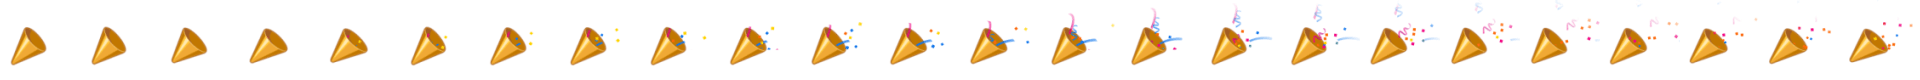
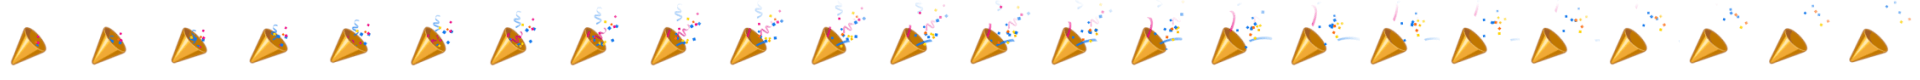
added a pulse for highlighting UI that corresponds to the bot's message

diff --git a/loading/css/style.css b/loading/css/style.css
@@ -275,6 +275,42 @@ body {
  }
 }
 
+#pulseLight {
+  position: relative;
+  top: 30px;
+  width: 50px;
+  height: 50px;
+  display: block;
+  background-image: url("../images/pulseLight.png");
+  animation: pulseLight .8s steps(25) infinite;
+}
+@keyframes pulseLight {
+ from {
+   background-position: 0px;
+ }
+ to {
+   background-position: -1250px;
+ }
+}
+
+#pulseDark {
+  position: relative;
+  top: 40px;
+  width: 50px;
+  height: 50px;
+  display: block;
+  background-image: url("../images/pulseDark.png");
+  animation: pulseDark .8s steps(25) infinite;
+}
+@keyframes pulseDark {
+ from {
+   background-position: 0px;
+ }
+ to {
+   background-position: -1250px;
+ }
+}
+
 #react-lol {
   position: relative;
   left: -20px;
@@ -390,7 +426,7 @@ body {
   height: 80px;
   display: block;
   background-image: url("../images/react_party.png");
-  animation: party 1.2s steps(24) infinite;
+  animation: party .8s steps(24) infinite;
 }
 @keyframes party {
  from {

diff --git a/loading/loading.html b/loading/loading.html
@@ -53,6 +53,10 @@
             </div>
             <div id="botTalk">
             </div>
+            <div id="pulseLight">
+            </div>
+            <div id="pulseDark">
+            </div>
         </div>
 
         <div id="col2">
